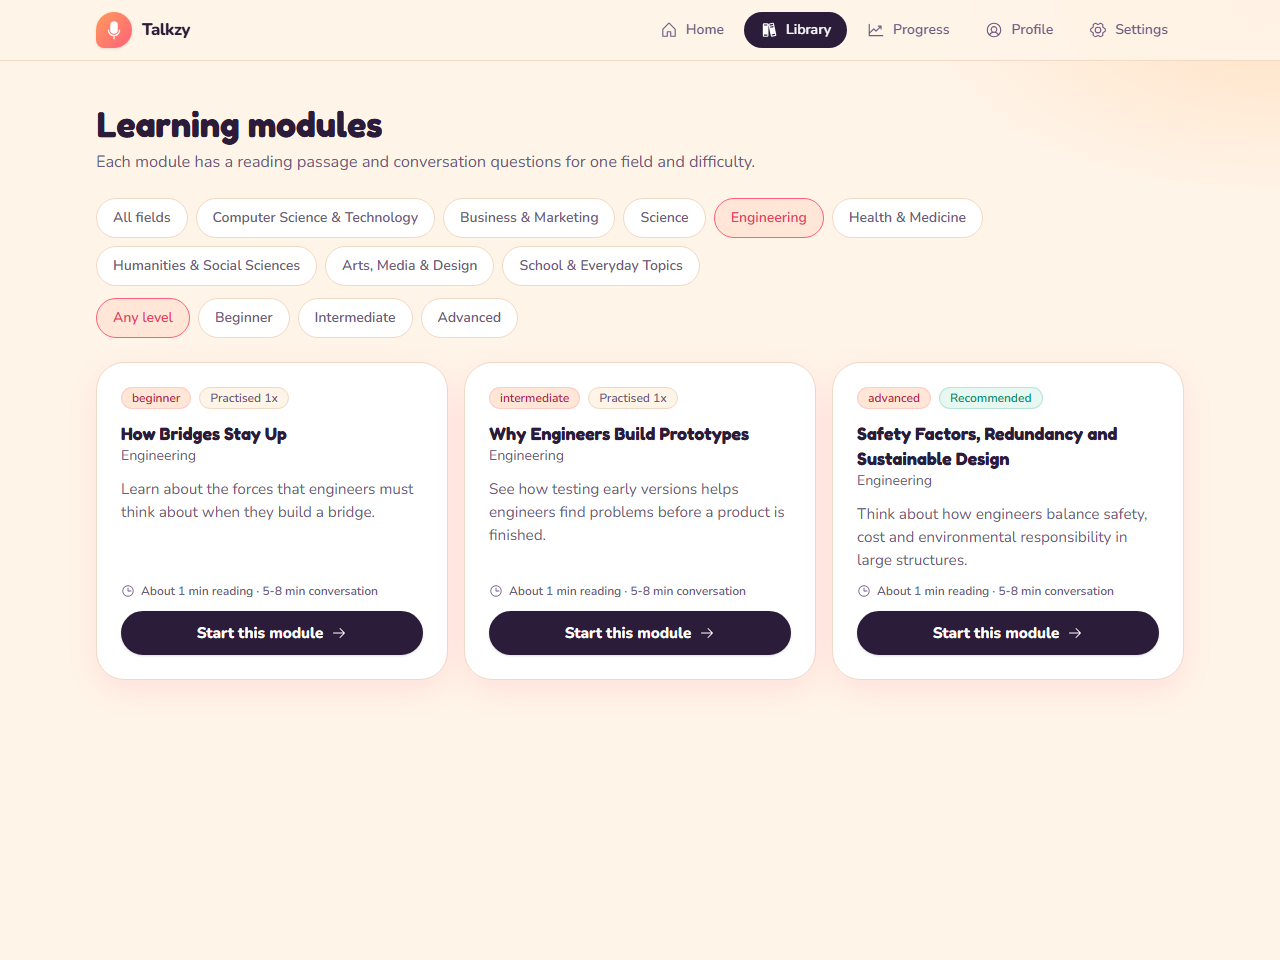
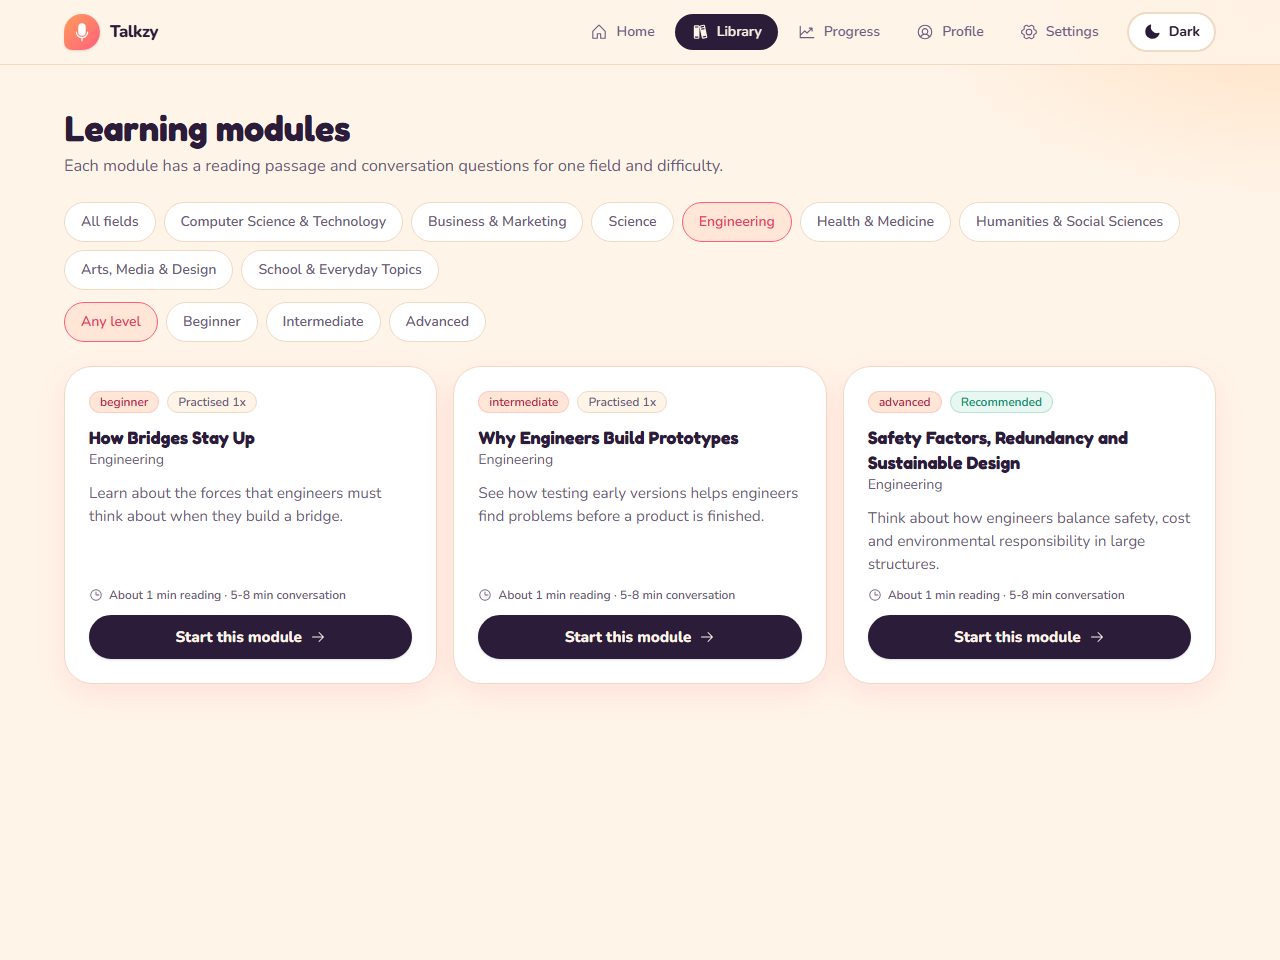
upload

diff --git a/src/components/app-shell.tsx b/src/components/app-shell.tsx
@@ -5,6 +5,7 @@ import Link from "next/link";
 import { usePathname, useRouter } from "next/navigation";
 import { useEffect, type ReactNode } from "react";
 import { useProfile } from "@/services/use-storage";
+import { ThemeToggle } from "./theme-toggle";
 import { Spinner } from "./ui";
 
 const NAV: { href: string; label: string; Icon: Icon }[] = [
@@ -39,13 +40,14 @@ export function AppShell({ children }: { children: ReactNode }) {
     <div className="min-h-dvh">
       {!focusMode && (
         <header className="sticky top-0 z-20 border-b border-line bg-paper/90 backdrop-blur">
-          <div className="mx-auto flex max-w-6xl items-center justify-between gap-4 px-4 py-3 md:px-8">
+          <div className="mx-auto flex max-w-[1920px] items-center justify-between gap-4 px-4 py-3 sm:px-6 lg:px-10 xl:px-16">
             <Link href="/" className="flex items-center gap-2.5 font-extrabold tracking-tight">
               <span className="grid h-9 w-9 place-items-center rounded-[50%_50%_50%_8px] bg-gradient-to-br from-[#ff9a56] to-[#ff5e7a] text-white shadow-sm" aria-hidden>
                 <Microphone size={20} weight="fill" />
               </span>
               <span className="whitespace-nowrap text-[1.05rem]">Talkzy</span>
             </Link>
+            <div className="flex items-center gap-3">
             {profile && (
               <nav aria-label="Main" className="hidden gap-1 md:flex">
                 {NAV.map(({ href, label, Icon }) => {
@@ -56,7 +58,7 @@ export function AppShell({ children }: { children: ReactNode }) {
                       href={href}
                       aria-current={active ? "page" : undefined}
                       className={`flex items-center gap-2 rounded-full px-4 py-2 text-sm font-semibold transition-colors ${
-                        active ? "bg-ink text-white" : "text-muted hover:bg-white hover:text-ink"
+                        active ? "bg-ink text-paper" : "text-muted hover:bg-surface hover:text-ink"
                       }`}
                     >
                       {/* Icons only from the large breakpoint up, so the labels fit on a tablet. */}
@@ -67,11 +69,13 @@ export function AppShell({ children }: { children: ReactNode }) {
                 })}
               </nav>
             )}
+            <ThemeToggle />
+            </div>
           </div>
         </header>
       )}
 
-      <main className={`mx-auto max-w-6xl px-4 py-6 md:px-8 md:py-10 ${profile && !focusMode ? "pb-28 md:pb-10" : ""}`}>
+      <main className={`mx-auto max-w-[1920px] px-4 py-6 sm:px-6 md:py-10 lg:px-10 xl:px-16 ${profile && !focusMode ? "pb-28 md:pb-10" : ""}`}>
         {waiting ? <Spinner label="Loading your coach" /> : children}
       </main>
 

diff --git a/tests/e2e/journey.spec.ts b/tests/e2e/journey.spec.ts
@@ -242,3 +242,43 @@ test("layout has no horizontal scroll at 375, 768 and 1440 px", async ({ page })
     }
   }
 });
+
+test("the page uses the full screen width and the header spans it", async ({ page }) => {
+  await page.setViewportSize({ width: 1600, height: 900 });
+  await completeOnboarding(page);
+  const logo = await page.getByRole("link", { name: "Talkzy" }).first().boundingBox();
+  const nav = await page.getByRole("navigation", { name: "Main" }).boundingBox();
+  const hero = await page.getByRole("link", { name: /Start today.s practice/ }).boundingBox();
+  expect(logo!.x).toBeLessThan(120); // logo at the left edge, not in a centred column
+  expect(nav!.x + nav!.width).toBeGreaterThan(1300); // tabs reach the right side
+  expect(hero).not.toBeNull();
+  const scrolls = await page.evaluate(() => document.documentElement.scrollWidth > document.documentElement.clientWidth);
+  expect(scrolls).toBe(false);
+});
+
+test("light and dark mode: switch, remember after reload, and keep text readable", async ({ page }) => {
+  await completeOnboarding(page);
+  const theme = () => page.evaluate(() => document.documentElement.dataset.theme);
+  expect(await theme()).toBe("light");
+
+  await page.getByRole("button", { name: "Switch to dark mode" }).click();
+  expect(await theme()).toBe("dark");
+  const bg = await page.evaluate(() => getComputedStyle(document.body).backgroundColor);
+  expect(bg).toBe("rgb(27, 16, 48)"); // the dark page colour
+
+  await page.reload();
+  await expect(page.getByRole("heading", { name: "Hi Riya!" })).toBeVisible();
+  expect(await theme()).toBe("dark"); // remembered, no flash back to light
+
+  // Buttons stay readable: the main button flips to a light fill with dark text.
+  const btn = page.getByRole("link", { name: /Start today.s practice/ });
+  const colours = await btn.evaluate((el) => {
+    const cs = getComputedStyle(el);
+    return { bg: cs.backgroundColor, fg: cs.color };
+  });
+  expect(colours.bg).not.toBe(colours.fg);
+  expect(colours.fg).toBe("rgb(27, 16, 48)");
+
+  await page.getByRole("button", { name: "Switch to light mode" }).click();
+  expect(await theme()).toBe("light");
+});

diff --git a/src/components/practice/conversation-phase.tsx b/src/components/practice/conversation-phase.tsx
@@ -501,7 +501,7 @@ export function ConversationPhase({ module, profile, goal, settings, stream, vad
   const studentCount = turns.filter((t) => t.role === "student").length;
 
   return (
-    <div className="mx-auto max-w-3xl space-y-5 pb-32">
+    <div className="mx-auto max-w-5xl space-y-5 pb-32">
       <div className="sticky top-0 z-10 -mx-4 flex flex-wrap items-center justify-between gap-3 bg-paper/95 px-4 py-2 backdrop-blur md:mx-0 md:px-0">
         <div className="w-full">
           <PhaseSteps current={2} />
@@ -614,8 +614,8 @@ export function ConversationPhase({ module, profile, goal, settings, stream, vad
                 <div ref={levelBar} className="h-full origin-left rounded-full bg-good transition-transform" style={{ transform: "scaleX(0.03)" }} />
               </div>
             </div>
-            <p className="mt-3 min-h-14 rounded-[1.6rem_1.6rem_0.4rem_1.6rem] bg-ink px-5 py-3.5 text-[1.02rem] leading-relaxed text-white" data-testid="live-transcript">
-              {interim || <span className="text-white/70">Listening for your voice...</span>}
+            <p className="mt-3 min-h-14 rounded-[1.6rem_1.6rem_0.4rem_1.6rem] bg-ink px-5 py-3.5 text-[1.02rem] leading-relaxed text-paper" data-testid="live-transcript">
+              {interim || <span className="text-paper/70">Listening for your voice...</span>}
             </p>
           </div>
         )}
@@ -682,7 +682,7 @@ export function ConversationPhase({ module, profile, goal, settings, stream, vad
             <li
               key={t.id}
               className={`max-w-[88%] rounded-2xl px-4 py-2.5 leading-relaxed ${
-                t.role === "coach" ? "mr-auto rounded-bl-md bg-white text-ink shadow-sm" : "ml-auto rounded-br-md bg-ink text-white"
+                t.role === "coach" ? "mr-auto rounded-bl-md bg-surface text-ink shadow-sm" : "ml-auto rounded-br-md bg-ink text-paper"
               }`}
             >
               <span className="font-semibold">{t.role === "coach" ? "Coach" : "You"}: </span>

diff --git a/src/components/theme-toggle.tsx b/src/components/theme-toggle.tsx
@@ -1,0 +1,47 @@
+"use client";
+
+import { Moon, Sun } from "@phosphor-icons/react";
+import { useSyncExternalStore } from "react";
+
+type Theme = "light" | "dark";
+
+/** The page script in layout.tsx sets data-theme on <html> before first paint; this just reads and changes it. */
+const STORAGE_KEY = "talkzy.theme";
+const listeners = new Set<() => void>();
+
+function subscribe(callback: () => void): () => void {
+  listeners.add(callback);
+  return () => {
+    listeners.delete(callback);
+  };
+}
+
+function getTheme(): Theme {
+  return document.documentElement.dataset.theme === "dark" ? "dark" : "light";
+}
+
+function setTheme(theme: Theme) {
+  document.documentElement.dataset.theme = theme;
+  try {
+    localStorage.setItem(STORAGE_KEY, theme);
+  } catch {
+    // Private windows can block storage; the choice then lasts until the tab closes.
+  }
+  listeners.forEach((l) => l());
+}
+
+export function ThemeToggle() {
+  const theme = useSyncExternalStore(subscribe, getTheme, () => "light" as Theme);
+  const next: Theme = theme === "dark" ? "light" : "dark";
+  return (
+    <button
+      type="button"
+      onClick={() => setTheme(next)}
+      aria-label={`Switch to ${next} mode`}
+      className="inline-flex min-h-10 items-center gap-2 rounded-full border-2 border-line bg-surface px-3.5 text-sm font-bold text-ink transition hover:border-ink"
+    >
+      {theme === "dark" ? <Sun size={18} weight="fill" aria-hidden /> : <Moon size={18} weight="fill" aria-hidden />}
+      <span className="hidden sm:inline">{theme === "dark" ? "Light" : "Dark"}</span>
+    </button>
+  );
+}

diff --git a/src/components/report-view.tsx b/src/components/report-view.tsx
@@ -204,7 +204,7 @@ export function ReportView({ sessionId }: { sessionId: string }) {
   }
 
   return (
-    <div className="mx-auto max-w-4xl space-y-6">
+    <div className="w-full space-y-6">
       <div>
         <div className="flex flex-wrap items-center gap-2">
           <Badge tone={s.report.generatedBy === "ai" ? "good" : "warn"}>{s.report.generatedBy === "ai" ? "AI-written feedback" : "Development mode"}</Badge>
@@ -256,6 +256,7 @@ export function ReportView({ sessionId }: { sessionId: string }) {
         </Notice>
       )}
 
+      <div className="grid gap-6 xl:grid-cols-2 xl:items-start">
       {/* 1. READING */}
       <Section icon={<BookOpenText size={22} weight="duotone" />} title="1. How you did while reading" subtitle="From your reading-aloud results, or your reading time if you read silently." tag={<SourceTag kind="measured" />}>
         {ai?.reading ? (
@@ -506,6 +507,8 @@ export function ReportView({ sessionId }: { sessionId: string }) {
           </div>
         </div>
       </Section>
+
+      </div>
 
       <details className="rounded-card border border-line bg-surface p-5">
         <summary className="cursor-pointer text-lg font-bold">All the numbers</summary>

diff --git a/src/app/globals.css b/src/app/globals.css
@@ -24,6 +24,36 @@
   --font-display: "Fredoka Variable", "Nunito Variable", ui-sans-serif, system-ui, sans-serif;
 }
 
+/* Dark mode: the same Sunrise colours after sunset. The toggle in the header sets data-theme on <html>. */
+html[data-theme="light"] {
+  color-scheme: light;
+}
+
+html[data-theme="dark"] {
+  color-scheme: dark;
+  --color-paper: #1b1030;
+  --color-surface: #2a1a45;
+  --color-ink: #fbeeff;
+  --color-muted: #c3adda;
+  --color-line: #44295f;
+  --color-accent: #ff8a65;
+  --color-accent-dark: #ff7048;
+  --color-accent-ink: #ffb59a;
+  --color-accent-soft: #3d2352;
+  --color-good: #7fe5b5;
+  --color-good-soft: #163a31;
+  --color-warn: #ffc27a;
+  --color-warn-soft: #3e2d1d;
+  --color-bad: #ff8fa8;
+  --color-bad-soft: #402030;
+  --shadow-card: 0 10px 30px rgba(0, 0, 0, 0.35);
+  --shadow-lift: 0 12px 28px rgba(0, 0, 0, 0.45);
+}
+
+html[data-theme="dark"] body {
+  background-image: radial-gradient(620px 320px at 100% 0%, #4a1f6b 0%, transparent 70%);
+}
+
 html {
   background: var(--color-paper);
 }

diff --git a/src/app/layout.tsx b/src/app/layout.tsx
@@ -14,11 +14,18 @@ export const metadata: Metadata = {
 export const viewport: Viewport = {
   width: "device-width",
   initialScale: 1,
+  colorScheme: "light dark",
 };
+
+// Runs before the first paint so a saved dark choice never flashes light. Light is the default.
+const THEME_SCRIPT = `(function(){var t="light";try{t=localStorage.getItem("talkzy.theme")==="dark"?"dark":"light"}catch(e){}document.documentElement.dataset.theme=t})();`;
 
 export default function RootLayout({ children }: { children: ReactNode }) {
   return (
-    <html lang="en">
+    <html lang="en" suppressHydrationWarning>
+      <head>
+        <script dangerouslySetInnerHTML={{ __html: THEME_SCRIPT }} />
+      </head>
       <body>
         <a href="#content" className="sr-only focus:not-sr-only focus:absolute focus:left-4 focus:top-4 focus:z-50 focus:rounded-lg focus:bg-surface focus:px-4 focus:py-2">
           Skip to content

diff --git a/src/components/practice/practice-session.tsx b/src/components/practice/practice-session.tsx
@@ -261,7 +261,7 @@ export function PracticeSession({ moduleId, goalParam }: { moduleId: string; goa
   }
 
   const topBar = (
-    <div className="mx-auto mb-5 flex max-w-3xl items-center justify-between">
+    <div className="mb-5 flex items-center justify-between">
       <span className="font-bold">Talkzy</span>
       {phase === "setup" || phase === "reading" ? (
         <Link href="/" className="text-sm font-semibold text-muted hover:text-ink">
@@ -308,7 +308,7 @@ export function PracticeSession({ moduleId, goalParam }: { moduleId: string; goa
     <div>
       {topBar}
       {phase === "setup" && (
-        <div className="mx-auto max-w-3xl space-y-5">
+        <div className="mx-auto max-w-5xl space-y-5">
           <DevModeBanner mode={mode} />
           <Card className="space-y-4">
             <div className="flex flex-wrap gap-2">

diff --git a/src/components/ui.tsx b/src/components/ui.tsx
@@ -11,8 +11,8 @@ const sizes: Record<Size, string> = {
   lg: "min-h-13 px-7 text-base",
 };
 const variants: Record<Variant, string> = {
-  primary: "border-2 border-ink bg-ink text-white shadow-sm hover:bg-[#44305c] hover:shadow-lift",
-  secondary: "border-2 border-ink bg-transparent text-ink hover:bg-white",
+  primary: "border-2 border-ink bg-ink text-paper shadow-sm hover:opacity-90 hover:shadow-lift",
+  secondary: "border-2 border-ink bg-transparent text-ink hover:bg-surface",
   ghost: "text-accent-ink hover:bg-accent-soft",
   danger: "border-2 border-bad bg-transparent text-bad hover:bg-bad-soft",
 };

diff --git a/src/app/settings/page.tsx b/src/app/settings/page.tsx
@@ -64,7 +64,7 @@ export default function SettingsPage() {
   const withTranscripts = sessions.filter((s) => s.transcriptKept && s.turns.length > 0).length;
 
   return (
-    <div className="mx-auto max-w-3xl space-y-6">
+    <div className="mx-auto max-w-5xl space-y-6">
       <PageHeader title="Settings and privacy" subtitle="You are in control of your voice, camera and saved data." />
       <DevModeBanner mode={mode} />
       {message && (

diff --git a/src/app/profile/page.tsx b/src/app/profile/page.tsx
@@ -12,7 +12,7 @@ export default function ProfilePage() {
   if (!profile) return null;
 
   return (
-    <div className="mx-auto max-w-3xl space-y-6">
+    <div className="mx-auto max-w-5xl space-y-6">
       <PageHeader title="Your profile" subtitle="Change your subject, difficulty or goal at any time. Your recommendations update straight away." />
       {saved && (
         <Notice tone="good" role="status">

diff --git a/src/app/onboarding/page.tsx b/src/app/onboarding/page.tsx
@@ -11,7 +11,7 @@ export default function OnboardingPage() {
   const existing = useProfile();
 
   return (
-    <div className="mx-auto max-w-3xl">
+    <div className="mx-auto max-w-5xl">
       <PageHeader
         title="Welcome! Let's set up your coach"
         subtitle="Tell us a little about you so your reading passages and conversation questions match your subject. It takes about a minute."
